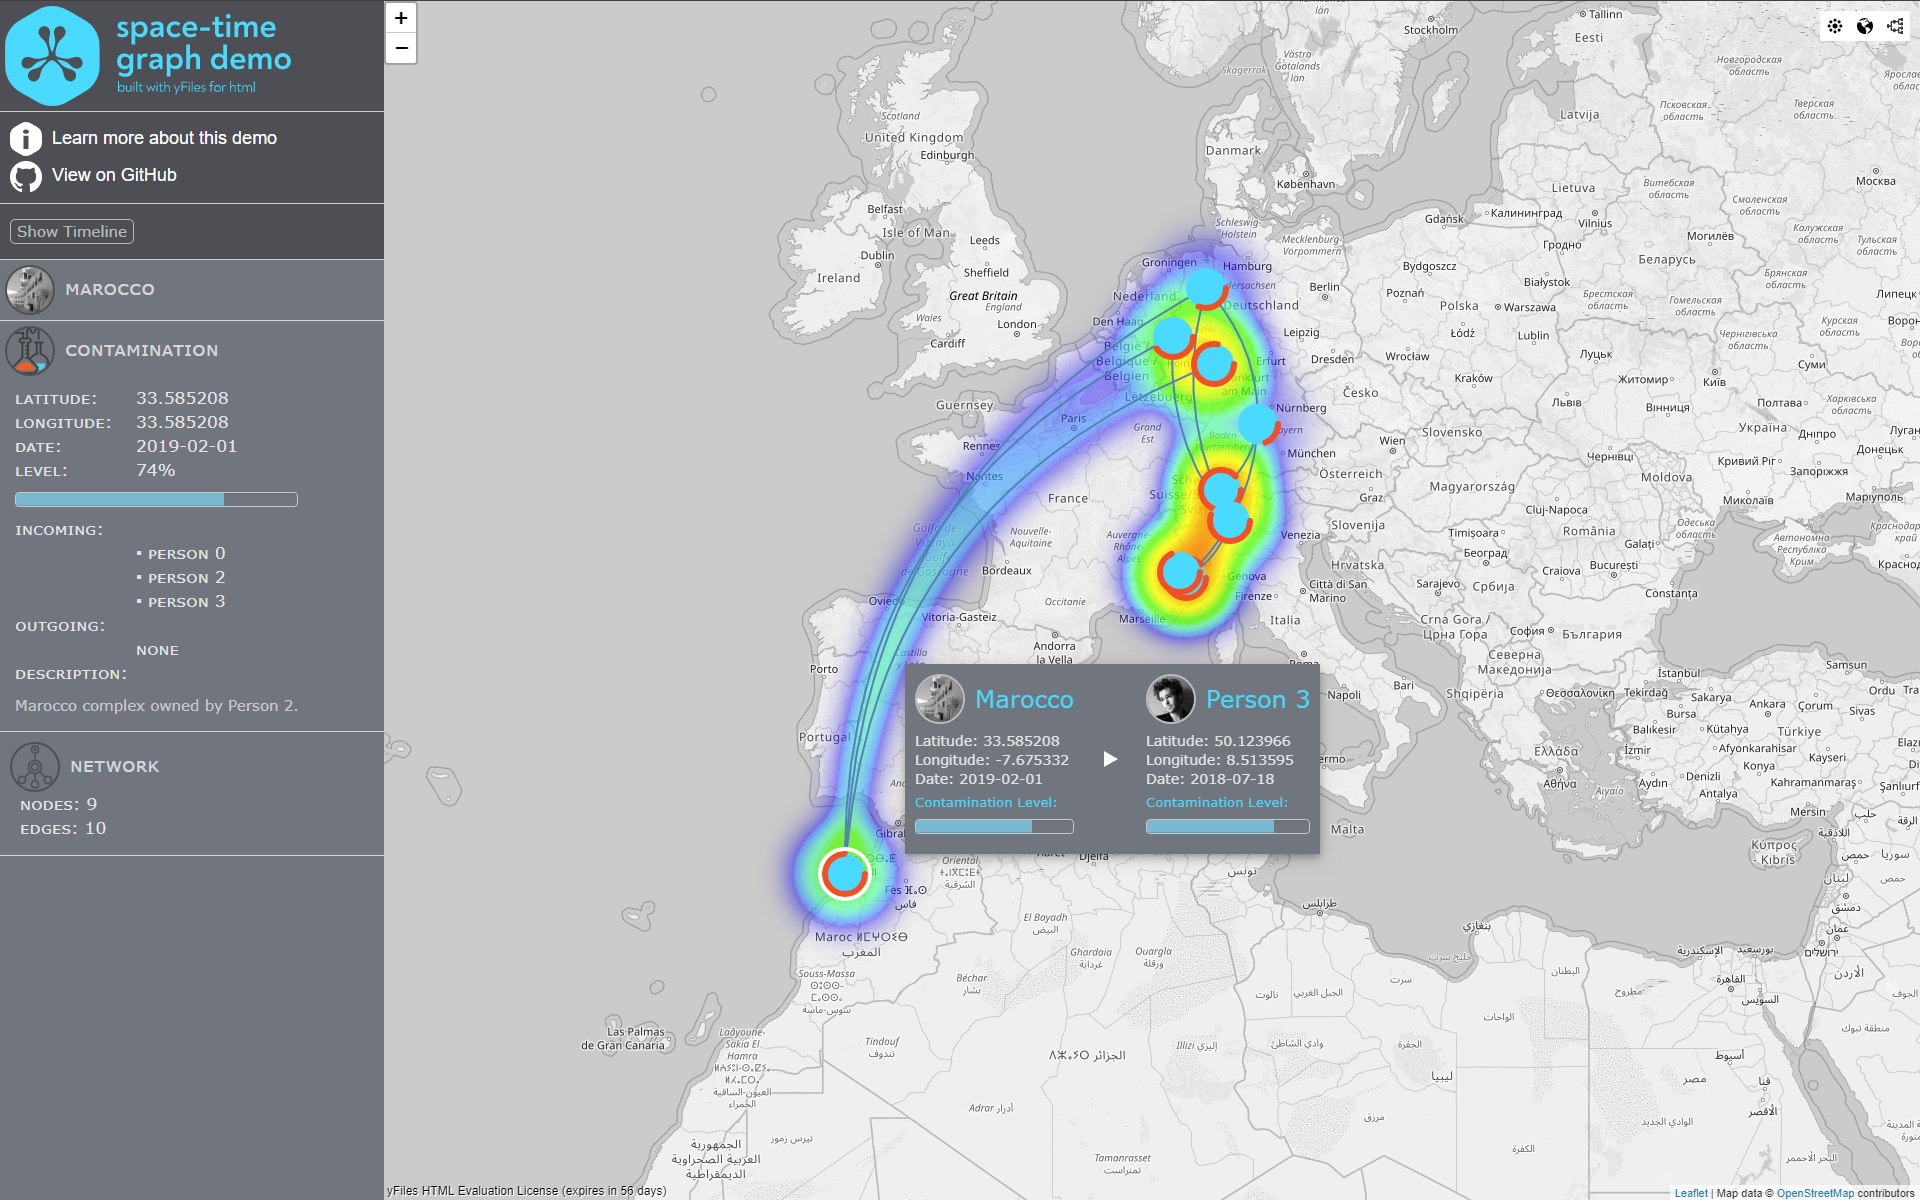
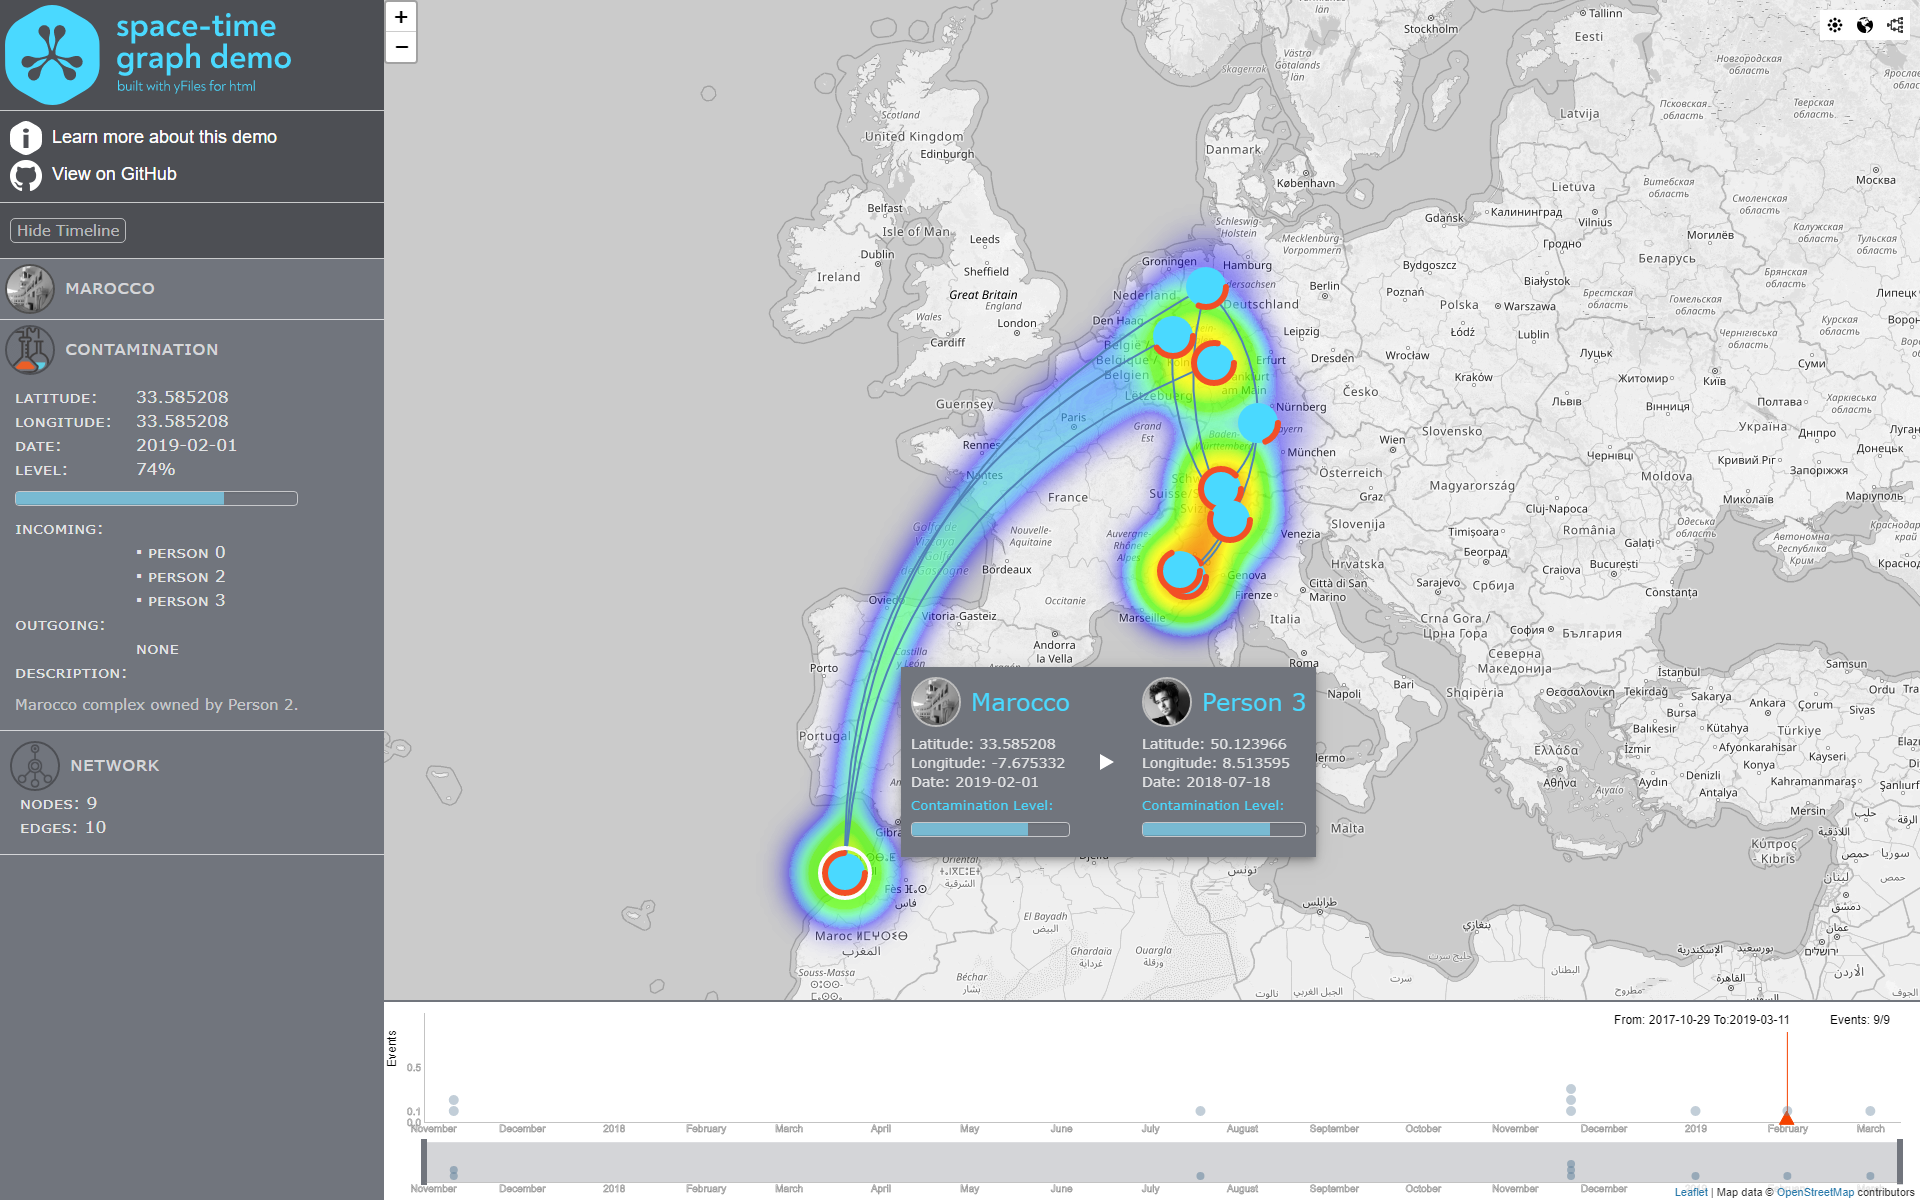
Show timeline and selected node on startup

diff --git a/Client/src/app/main/main.component.ts b/Client/src/app/main/main.component.ts
@@ -24,7 +24,7 @@ import { Styling } from './graph/styling'
 import { GraphLayer, GrayTileLayer } from './graph/graphLayer'
 import { ToggleGraphControl } from './toolbar/toolbarControl'
 import { SetGraphMode } from '../store/actions/graphActions'
-import { GraphComponent, FilteredGraphWrapper } from 'yfiles'
+import { GraphComponent, FilteredGraphWrapper, GraphViewerInputMode } from 'yfiles'
 
 @Component({
   selector: 'app-main',
@@ -192,6 +192,15 @@ export class MainComponent implements AfterViewInit, OnInit {
           return
         }
         this.updateLayout()
+
+        if (!this.graphComponent.currentItem) {
+          // select a node for demonstration purpose
+          const inputMode = this.graphComponent.inputMode as GraphViewerInputMode
+          const item = this.graphComponent.graph.nodes.first()
+          this.graphComponent.currentItem = item
+          inputMode.setSelected(item, true)
+        }
+
         // self.timeline.updater();
         // self.timeline.filteringEnabled(false);
       })

diff --git a/Client/src/app/propertypanel/propertypanel.component.ts b/Client/src/app/propertypanel/propertypanel.component.ts
@@ -91,6 +91,8 @@ export class PropertyPanelComponent implements OnInit {
       }
       self.currentFileName = name
     })
+
+    this.store.dispatch(new ShowTimeline())
   }
 
   openDialog(): void {
